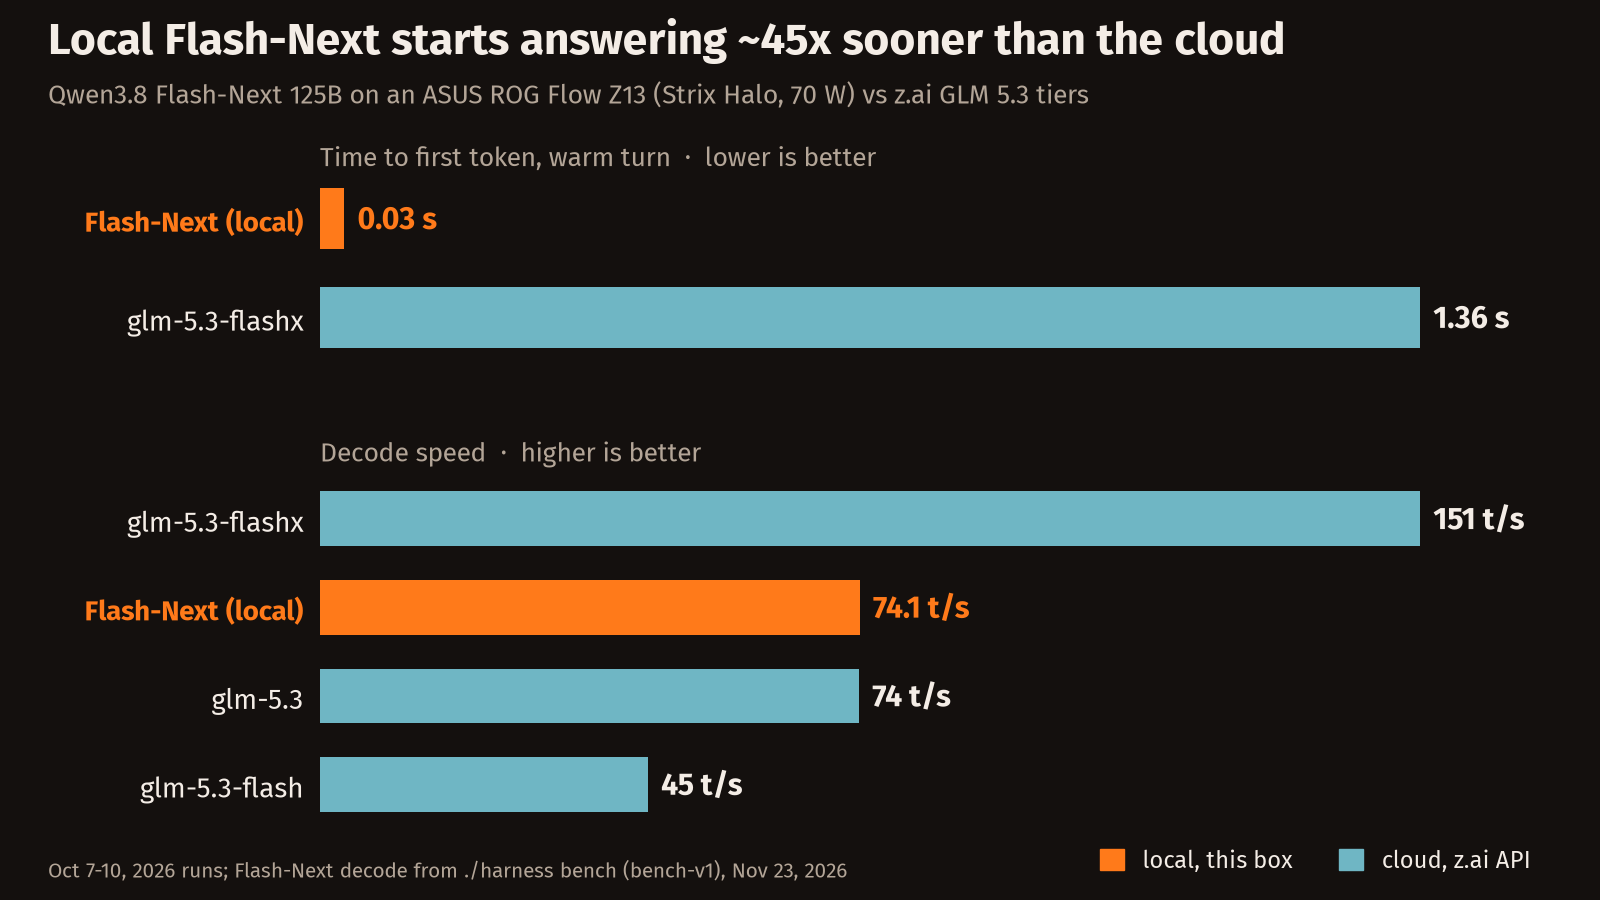
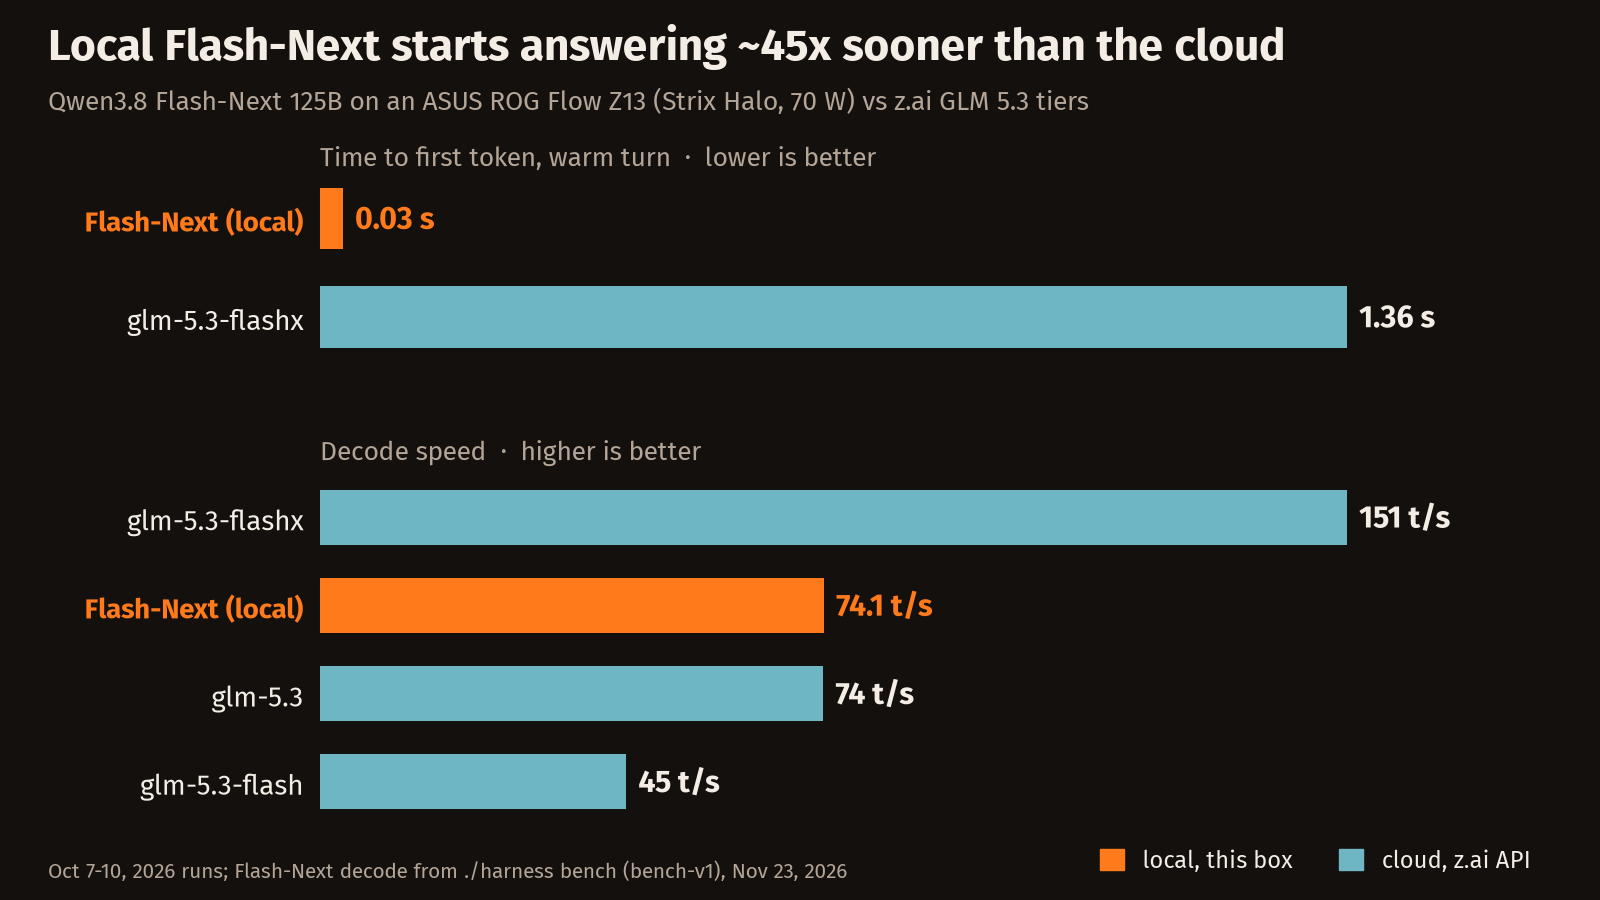
Docs charts: dark wallclock-by-run (PR-found + wrong-mechanism marks), new engines-strix-halo and prompt-prefix charts; drop white halogen-0171-upgrade; all from scripts/charts.py

diff --git a/scripts/charts.py b/scripts/charts.py
@@ -1,7 +1,7 @@
 #!/usr/bin/env python3
-"""charts.py — render docs/charts/local-vs-cloud.png (dark, banner palette).
+"""charts.py — render the docs/charts/*.png benchmark charts (dark, banner palette).
   ./scripts/charts.py
-Numbers are hard-coded from logged runs; edit TTFT/DECODE and rerun.
+Numbers are hard-coded from logged runs (see the comment above each chart); edit and rerun.
 """
 from pathlib import Path
 
@@ -10,59 +10,120 @@ matplotlib.use("Agg")
 import matplotlib.pyplot as plt
 from matplotlib.patches import Patch
 
-OUT = Path(__file__).resolve().parent.parent / "docs/charts/local-vs-cloud.png"
+DIR = Path(__file__).resolve().parent.parent / "docs/charts"
 
 # docs/brand/banner.html palette
 BG, TEXT, MUTED, ACCENT, CLOUD = "#14100e", "#f4ede6", "#b3a597", "#ff7a1a", "#6fb6c4"
-
-# (label, value, is_local), all at 70 W. TTFT and GLM decode: runs 2026-10-07..10
-# (docs/local-vs-cloud-model-comparison.md); Flash-Next decode: ./harness bench, bench-v1, 2026-11-23.
-TTFT = [("Flash-Next (local)", 0.03, True), ("glm-5.3-flashx", 1.36, False)]
-DECODE = [("Flash-Next (local)", 74.1, True), ("glm-5.3-flash", 45, False),
-          ("glm-5.3", 74, False), ("glm-5.3-flashx", 151, False)]
+RIG = "ASUS ROG Flow Z13 (Strix Halo, 70 W)"
 
 
-def row(ax, rows, title, fmt, best_low):
-    rows = sorted(rows, key=lambda r: r[1], reverse=not best_low)  # best on top
-    labels, vals, local = zip(*rows)
-    y = range(len(rows))[::-1]
-    ax.barh(y, vals, height=0.62, color=[ACCENT if l else CLOUD for l in local])
-    top = max(vals)
-    for yi, v, l in zip(y, vals, local):
-        ax.text(v + top * 0.012, yi, fmt(v), va="center", fontsize=22, fontweight="bold",
-                color=ACCENT if l else TEXT)
-    ax.set_yticks(list(y), labels, fontsize=20)
-    for t, l in zip(ax.get_yticklabels(), local):
-        t.set_color(ACCENT if l else TEXT)
-        t.set_fontweight("bold" if l else "normal")
-    ax.set_xlim(0, top * 1.12)
+def mmss(s):
+    return f"{s // 60}m{s % 60:02d}s"
+
+
+def row(ax, rows, title, fmt, best_low=None):
+    """rows: (label, value, color, note?). best_low=None keeps the given order."""
+    if best_low is not None:
+        rows = sorted(rows, key=lambda r: r[1], reverse=not best_low)  # best on top
+    y = list(range(len(rows)))[::-1]
+    top = max(r[1] for r in rows)
+    for yi, (label, v, color, *note) in zip(y, rows):
+        hatch = color == "wrong"
+        c = CLOUD if hatch else color
+        ax.barh(yi, v, height=0.62, color=BG if hatch else c, edgecolor=c, hatch="//" if hatch else None,
+                linewidth=1.5 if hatch else 0)
+        hi = c == ACCENT
+        t = ax.text(v + top * 0.012, yi, fmt(v), va="center", fontsize=22, fontweight="bold",
+                    color=ACCENT if hi else TEXT)
+        if note:
+            ax.annotate("  " + note[0], xycoords=t, xy=(1, 0.5), va="center", fontsize=17,
+                        fontweight="bold" if hi else "normal", color=ACCENT if hi else MUTED)
+    ax.set_yticks(y, [r[0] for r in rows], fontsize=20)
+    for t, r in zip(ax.get_yticklabels(), rows):
+        t.set_color(ACCENT if r[2] == ACCENT else TEXT)
+        t.set_fontweight("bold" if r[2] == ACCENT else "normal")
+    ax.set_xlim(0, top * 1.3 if any(len(r) > 3 for r in rows) else top * 1.2)
     ax.set_xticks([])
     ax.tick_params(length=0, pad=12)
     ax.set_facecolor(BG)
     for s in ax.spines.values():
         s.set_visible(False)
-    ax.set_title(title, loc="left", color=MUTED, fontsize=19, pad=10)
+    if title:
+        ax.set_title(title, loc="left", color=MUTED, fontsize=19, pad=10)
+
+
+def chart(name, headline, sub, panels, legend, foot, height=9, left=0.2):
+    """panels: [(rows, title, fmt, best_low)]; legend: [(color, label)]."""
+    fig, axes = plt.subplots(len(panels), 1, figsize=(16, height), dpi=100, facecolor=BG, squeeze=False,
+                             gridspec_kw={"height_ratios": [len(p[0]) for p in panels]})
+    fig.text(0.03, 1 - 0.6 / height, headline, color=TEXT, fontsize=32, fontweight="bold")
+    fig.text(0.03, 1 - 1.1 / height, sub, color=MUTED, fontsize=19)
+    for ax, p in zip(axes[:, 0], panels):
+        row(ax, *p)
+    fig.legend(handles=[Patch(facecolor=BG if c == "wrong" else c, edgecolor=CLOUD if c == "wrong" else c,
+                              hatch="//" if c == "wrong" else None, label=l) for c, l in legend],
+               loc="lower right", bbox_to_anchor=(0.97, 0.005), ncol=len(legend), frameon=False,
+               fontsize=17, labelcolor=TEXT, handlelength=1, handleheight=1)
+    fig.text(0.03, 0.22 / height, foot, color=MUTED, fontsize=15)
+    fig.subplots_adjust(left=left, right=0.97, top=1 - 1.8 / height, bottom=0.75 / height, hspace=0.45)
+    out = DIR / name
+    fig.savefig(out, facecolor=BG)
+    plt.close(fig)
+    print(out)
 
 
 def main():
     plt.rcParams["font.family"] = ["Fira Sans", "DejaVu Sans"]
-    fig, (a, b) = plt.subplots(2, 1, figsize=(16, 9), dpi=100, facecolor=BG,
-                               gridspec_kw={"height_ratios": [len(TTFT), len(DECODE)]})
-    ratio = round(TTFT[1][1] / TTFT[0][1])
-    fig.text(0.03, 0.94, f"Local Flash-Next starts answering ~{ratio}x sooner than the cloud",
-             color=TEXT, fontsize=32, fontweight="bold")
-    fig.text(0.03, 0.885, "Qwen3.8 Flash-Next 125B on an ASUS ROG Flow Z13 (Strix Halo, 70 W) vs z.ai GLM 5.3 tiers",
-             color=MUTED, fontsize=19)
-    row(a, TTFT, "Time to first token, warm turn  ·  lower is better", lambda v: f"{v:.2f} s", True)
-    row(b, DECODE, "Decode speed  ·  higher is better", lambda v: f"{v:g} t/s", False)
-    fig.legend(handles=[Patch(color=ACCENT, label="local, this box"), Patch(color=CLOUD, label="cloud, z.ai API")],
-               loc="lower right", bbox_to_anchor=(0.97, 0.005), ncol=2, frameon=False,
-               fontsize=17, labelcolor=TEXT, handlelength=1, handleheight=1)
-    fig.text(0.03, 0.025, "Oct 7-10, 2026 runs; Flash-Next decode from ./harness bench (bench-v1), Nov 23, 2026",
-             color=MUTED, fontsize=15)
-    fig.subplots_adjust(left=0.2, right=0.97, top=0.8, bottom=0.08, hspace=0.45)
-    fig.savefig(OUT, facecolor=BG)
-    print(OUT)
+    local, cloud = (ACCENT, "local, this box"), (CLOUD, "cloud, z.ai API")
+
+    # TTFT and GLM decode: runs 2026-10-07..10 (docs/local-vs-cloud-model-comparison.md);
+    # Flash-Next decode: ./harness bench, bench-v1, 2026-11-23, 70 W.
+    ttft = [("Flash-Next (local)", 0.03, ACCENT), ("glm-5.3-flashx", 1.36, CLOUD)]
+    decode = [("Flash-Next (local)", 74.1, ACCENT), ("glm-5.3-flash", 45, CLOUD),
+              ("glm-5.3", 74, CLOUD), ("glm-5.3-flashx", 151, CLOUD)]
+    chart("local-vs-cloud.png",
+          f"Local Flash-Next starts answering ~{round(ttft[1][1] / ttft[0][1])}x sooner than the cloud",
+          f"Qwen3.8 Flash-Next 125B on an {RIG} vs z.ai GLM 5.3 tiers",
+          [(ttft, "Time to first token, warm turn  ·  lower is better", lambda v: f"{v:.2f} s", True),
+           (decode, "Decode speed  ·  higher is better", lambda v: f"{v:g} t/s", False)],
+          [local, cloud], "Oct 7-10, 2026 runs; Flash-Next decode from ./harness bench (bench-v1), Nov 23, 2026")
+
+    # docs/local-vs-cloud-model-comparison.md, Results table (runs 1-8).
+    runs = [("glm-5.3-flash (opencode)", 68, "wrong", "wrong mechanism"),
+            ("glm-5.3-flashx (opencode)", 90, CLOUD),
+            ("glm-5.3-flashx (pi)", 161, CLOUD),
+            ("Flash-Next (pi, medium)", 175, ACCENT, "upstream PR found"),
+            ("GLM 5.3 753B (opencode)", 375, CLOUD),
+            ("GLM 5.3 753B (pi)", 510, CLOUD),
+            ("Flash-Next (pi, max)", 511, ACCENT, "upstream PR found"),
+            ("glm-5.3-flash (pi)", 549, CLOUD)]
+    chart("wallclock-by-run.png", "One real bug, eight runs: only the local model found the upstream PR",
+          "Wall-clock time per run, fastest first; all eight called the bug correctly",
+          [(runs, None, mmss, None)],
+          [local, cloud, ("wrong", "cloud, wrong mechanism")],
+          "Oct 7-10, 2026; local on the Flow Z13 at 70 W", height=10, left=0.24)
+
+    # docs/BENCHMARKS.md, "Engines on Strix Halo" (halogen measured on 0.18.5; Strata 0.1.44.1 tuned; gufo 0.12.0).
+    alt = MUTED
+    dec = [("halogen", 65, ACCENT), ("Strata", 43, alt), ("gufo", 40, alt)]
+    pf = [("halogen", 1520, ACCENT), ("Strata", 990, alt), ("gufo", 1270, alt)]
+    chart("engines-strix-halo.png", "halogen is the fastest engine on Strix Halo",
+          f"Qwen3.8 Flash-Next UD-IQ4_XS, 256k context, on an {RIG}; same prompts, greedy, thinking off",
+          [(dec, "Decode, 10-prompt battery median  ·  higher is better", lambda v: f"{v:g} t/s", False),
+           (pf, "Cold prefill, ~119k-131k token prompt  ·  higher is better", lambda v: f"~{v:,} t/s", False)],
+          [(ACCENT, "default"), (alt, "open alternatives")],
+          "halogen 0.18.5 (pin now 0.19.1), Strata 0.1.44.1 tuned, gufo 0.12.0; Oct 2026", left=0.14)
+
+    # docs/BENCHMARKS.md, "Prompt prefix and tool routing (2026-11-22)", osmos-evo, thinking off.
+    before, after = MUTED, ACCENT
+    chart("prompt-prefix.png", "8 tools instead of 25: a cold turn drops from 31 s to 17.5 s",
+          "osmos (DeepSeek-V4.1-Flash) on Strix Halo, new session, a one-word message",
+          [([("before (25 tools)", 13968, before), ("after (8 tools)", 7952, after)],
+            "Cold prompt  ·  lower is better", lambda v: f"{v:,} tokens", None),
+           ([("before (25 tools)", 31.4, before), ("after (8 tools)", 17.5, after)],
+            "Cold read time  ·  lower is better", lambda v: f"{v:g} s", None)],
+          [(before, "before"), (after, "after")],
+          "Measured Nov 22, 2026; the rest of the tools are called from codemode", height=7.5, left=0.18)
 
 
 if __name__ == "__main__":

diff --git a/docs/BENCHMARKS.md b/docs/BENCHMARKS.md
@@ -1,6 +1,6 @@
 # Benchmark numbers, methodology & what was removed after testing
 
-![halogen 0.16.2 to 0.17.1: NPU call latency and decode rate](charts/halogen-0171-upgrade.png)
+![Engines on Strix Halo, Qwen3.8 Flash-Next at 256k context: halogen 65 t/s decode and ~1,520 t/s cold prefill, Strata 43 and ~990, gufo 40 and ~1,270](charts/engines-strix-halo.png)
 
 Rig: ASUS ROG Flow Z13 (Ryzen AI Max+ 395, Radeon 8060S, 128 GB unified, Linux), benches at 70 W sustained. NPU driver needs IOMMU on. NPU numbers below are halogen 0.17.1 (the image pin has since moved to 0.19.1, and 0.18.0 refreshed the NPU device files); ling3.0-tiny sidecar on a strix-halo-llamacpp v0.7.6.1 build.
 
@@ -117,7 +117,7 @@ prefill time.
 
 Measured on an ASUS ROG Flow Z13 (Ryzen AI Max+ 395, Radeon 8060S, 128 GB) at 70 W sustained.
 
-![Wall-clock per run, eight runs](charts/wallclock-by-run.png)
+![Wall-clock per run, eight runs on one real bug: only the two local Flash-Next runs found the upstream PR](charts/wallclock-by-run.png)
 ![Local Qwen3.8 Flash-Next 125B vs GLM 5.3 cloud tiers on Strix Halo: time to first token and decode tokens per second](charts/local-vs-cloud.png)
 
 ## Serena: context returned per navigation task (2026-10-16)
@@ -162,6 +162,8 @@ tool list is ~2.3 ms of wait on each cold turn (new session, or anything that ch
 | before | 25 | 13,968 tokens | 31.4 s |
 | after | 8 | 7,952 tokens | 17.5 s |
 | a turn after the progress note, before / after the fix | | 0 / 13,967 reused | 32.4 / 9.4 s |
+
+![Cold prompt 13,968 to 7,952 tokens and cold read 31.4 to 17.5 s after declaring 8 tools instead of 25](charts/prompt-prefix.png)
 
 `ask_user_question` was kept with trimmed guidance (`config/ask-user-question.json`): ~2.7k chars of prompt instead of ~5.5k.
 

diff --git a/docs/local-vs-cloud-model-comparison.md b/docs/local-vs-cloud-model-comparison.md
@@ -66,7 +66,7 @@ the already-open upstream PR (linuxmint/timeshift#496). The other six
 missed it or suggested reporting upstream - noted per run below. The user also had GLM 5.3
 flashx rate both pi-harness answers; it picked Qwen's.
 
-![wall clock per run](charts/wallclock-by-run.png)
+![Wall-clock per run, eight runs on one real bug: only the two local Flash-Next runs found the upstream PR](charts/wallclock-by-run.png)
 
 ## What the eight runs show
 
